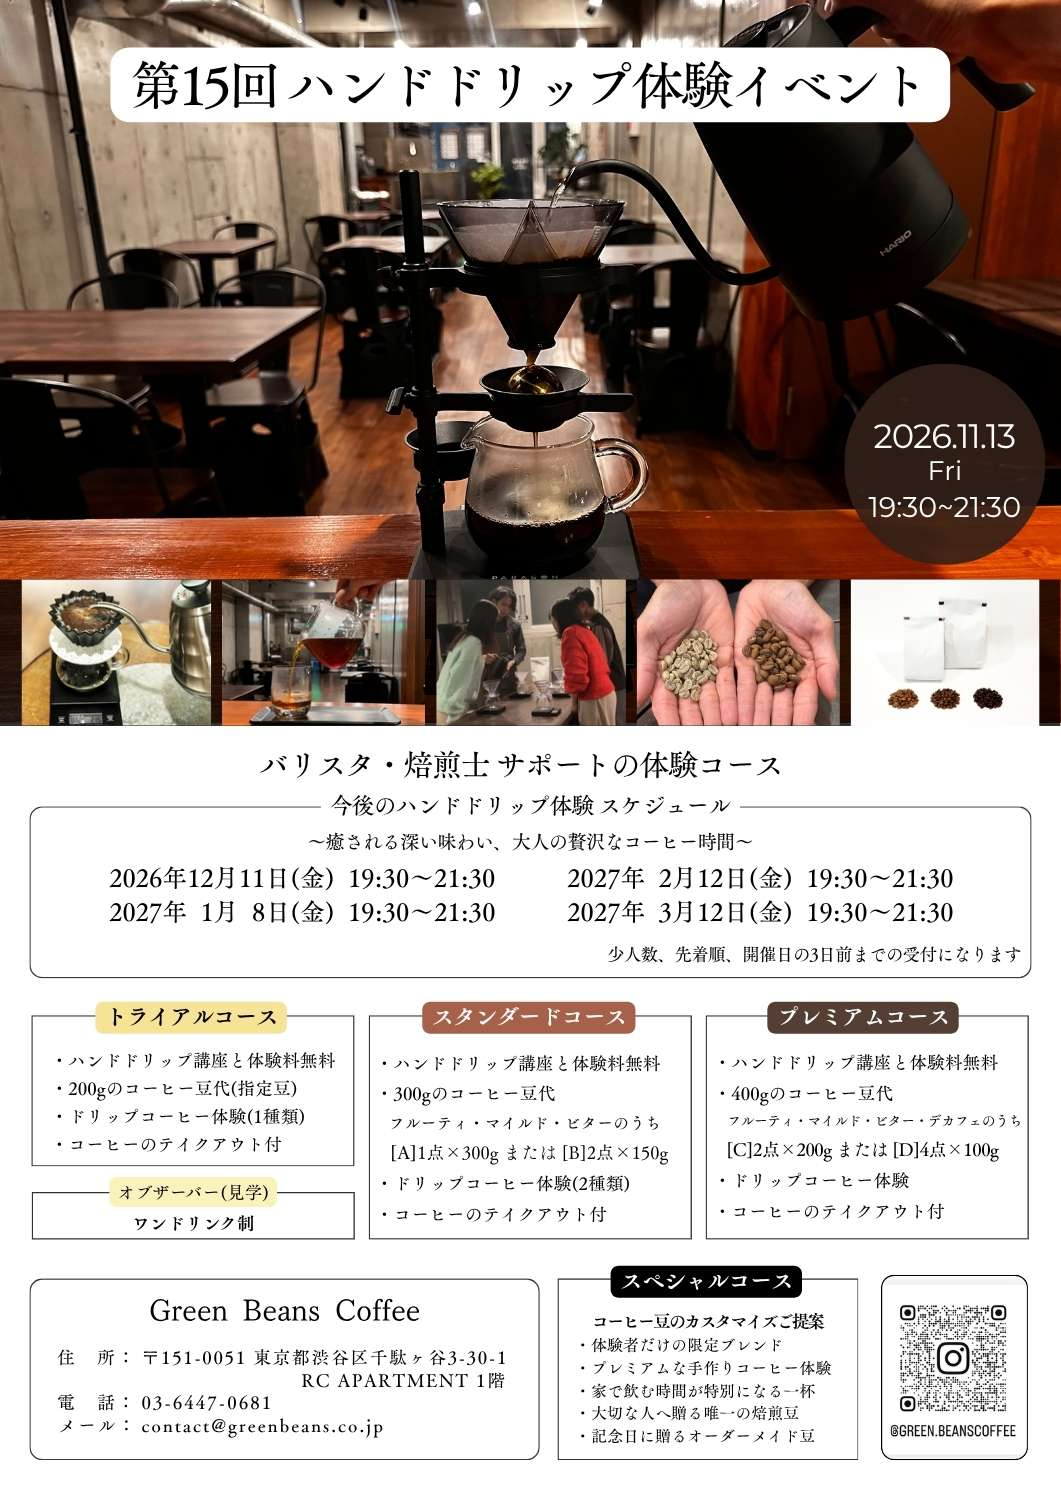
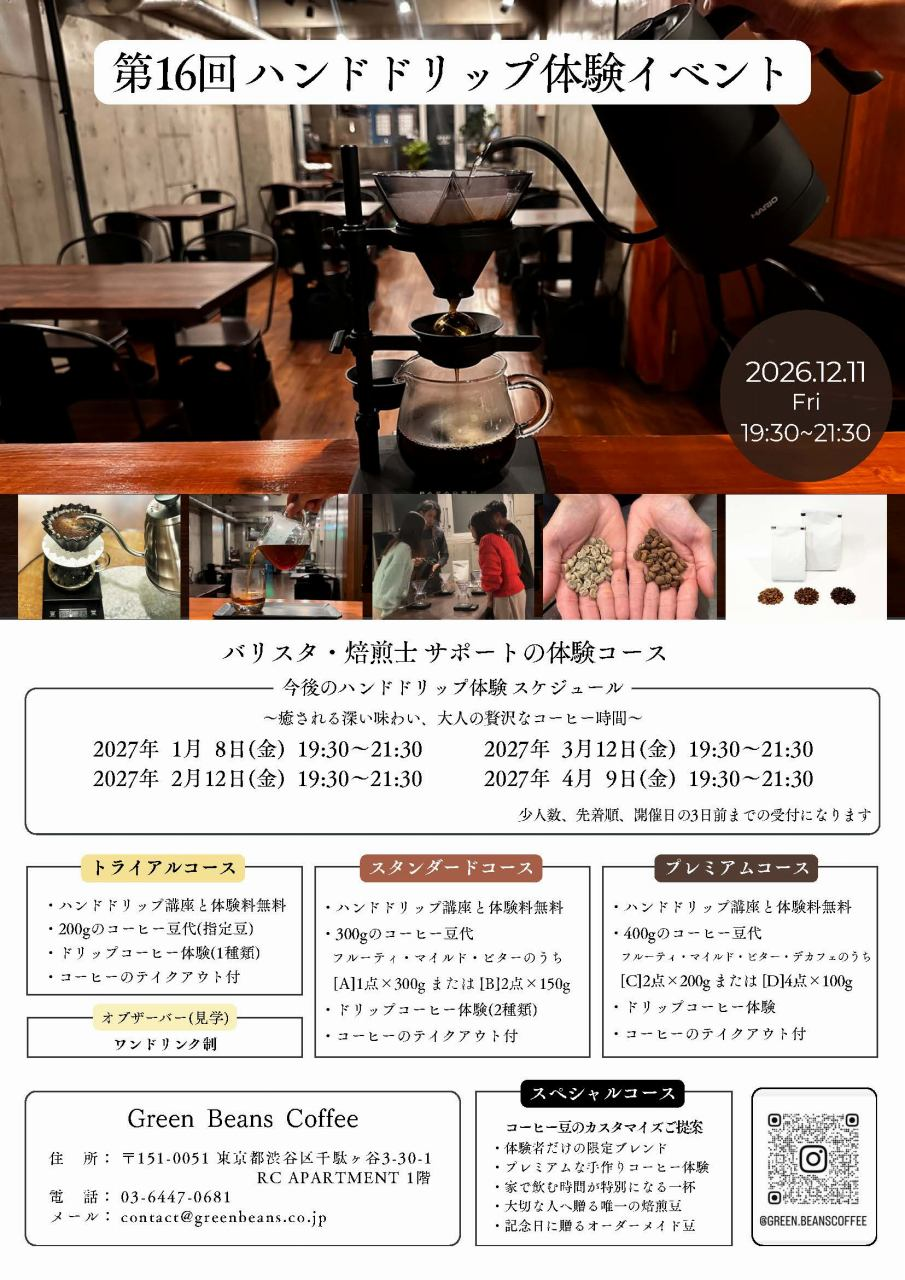
feat: update December coffee workshops and standardize event image workflow

diff --git a/public/en/index.html b/public/en/index.html
@@ -721,7 +721,17 @@
 
             <!-- Event Flyer -->
             <div class="w-full lg:h-full flex flex-col">
-              <img src="/assets/images/events/event-roasting.jpg" alt="Green Beans Coffee roasting experience event — use the in-house roaster to learn how coffee beans are transformed, step by step." class="w-full rounded-lg shadow-lg" loading="lazy" decoding="async">
+              <div class="relative group cursor-pointer" onclick="openModal(this)">
+                <img src="/assets/images/events/event-roasting.jpg?v=4fdf2a6f" alt="Flyer for the 24th Coffee Roasting Workshop at Green Beans Coffee (Kitasando / Sendagaya) — December 26, 2026 (Sat), 8:00–10:00. Use the in-house roaster to learn how coffee beans are transformed, step by step." class="w-full rounded-lg shadow-lg group-hover:shadow-xl transition-all duration-300 group-hover:scale-105" loading="lazy" decoding="async">
+                <div class="absolute inset-0 bg-black/0 group-hover:bg-black/20 transition-all duration-300 rounded-lg flex items-center justify-center">
+                  <svg xmlns="http://www.w3.org/2000/svg" width="48" height="48" viewBox="0 0 24 24" fill="none" stroke="white" stroke-width="2" stroke-linecap="round" stroke-linejoin="round" class="opacity-0 group-hover:opacity-100 transition-opacity duration-300">
+                    <circle cx="11" cy="11" r="8"></circle>
+                    <path d="m21 21-4.3-4.3"></path>
+                    <line x1="11" y1="8" x2="11" y2="14"></line>
+                    <line x1="8" y1="11" x2="14" y2="11"></line>
+                  </svg>
+                </div>
+              </div>
               <div class="hidden lg:flex flex-1 items-end pb-4 mt-4">
                 <div class="flex items-center justify-center gap-3 text-secondary opacity-40 w-full">
                   <svg xmlns="http://www.w3.org/2000/svg" width="24" height="24" viewBox="0 0 24 24" fill="none" stroke="currentColor" stroke-width="2" stroke-linecap="round" stroke-linejoin="round" class="lucide lucide-coffee"><path d="M10 2v2"/><path d="M14 2v2"/><path d="M16 8a1 1 0 0 1 1 1v8a4 4 0 0 1-4 4H7a4 4 0 0 1-4-4V9a1 1 0 0 1 1-1h14a4 4 0 1 1 0 8h-1"/><path d="M6 2v2"/></svg>
@@ -766,7 +776,17 @@
 
             <!-- Event Flyer -->
             <div class="w-full lg:h-full flex flex-col">
-              <img src="/assets/images/events/event-handdrip.jpg" alt="Green Beans Coffee hand-drip experience event — learn the art of pour-over coffee and discover how technique shapes flavor." class="w-full rounded-lg shadow-lg" loading="lazy" decoding="async">
+              <div class="relative group cursor-pointer" onclick="openModal(this)">
+                <img src="/assets/images/events/event-handdrip.jpg?v=202ccace" alt="Flyer for the 16th Hand-Drip Coffee Workshop at Green Beans Coffee (Kitasando / Sendagaya) — December 11, 2026 (Fri), 19:30–21:30. Learn the art of pour-over coffee and discover how technique shapes flavor." class="w-full rounded-lg shadow-lg group-hover:shadow-xl transition-all duration-300 group-hover:scale-105" loading="lazy" decoding="async">
+                <div class="absolute inset-0 bg-black/0 group-hover:bg-black/20 transition-all duration-300 rounded-lg flex items-center justify-center">
+                  <svg xmlns="http://www.w3.org/2000/svg" width="48" height="48" viewBox="0 0 24 24" fill="none" stroke="white" stroke-width="2" stroke-linecap="round" stroke-linejoin="round" class="opacity-0 group-hover:opacity-100 transition-opacity duration-300">
+                    <circle cx="11" cy="11" r="8"></circle>
+                    <path d="m21 21-4.3-4.3"></path>
+                    <line x1="11" y1="8" x2="11" y2="14"></line>
+                    <line x1="8" y1="11" x2="14" y2="11"></line>
+                  </svg>
+                </div>
+              </div>
               <div class="hidden lg:flex flex-1 items-end pb-4 mt-4">
                 <div class="flex items-center justify-center gap-3 text-secondary opacity-40 w-full">
                   <svg xmlns="http://www.w3.org/2000/svg" width="24" height="24" viewBox="0 0 24 24" fill="none" stroke="currentColor" stroke-width="2" stroke-linecap="round" stroke-linejoin="round" class="lucide lucide-coffee"><path d="M10 2v2"/><path d="M14 2v2"/><path d="M16 8a1 1 0 0 1 1 1v8a4 4 0 0 1-4 4H7a4 4 0 0 1-4-4V9a1 1 0 0 1 1-1h14a4 4 0 1 1 0 8h-1"/><path d="M6 2v2"/></svg>
@@ -1959,8 +1979,8 @@
     "image": {
       "@type": "ImageObject",
       "url": "https://greenbeanscoffeeambassador.com/assets/images/events/event-roasting.jpg",
-      "width": 1061,
-      "height": 1500
+      "width": 905,
+      "height": 1280
     },
     "eventStatus": "https://schema.org/EventScheduled",
     "eventAttendanceMode": "https://schema.org/OfflineEventAttendanceMode",
@@ -2007,8 +2027,8 @@
     "image": {
       "@type": "ImageObject",
       "url": "https://greenbeanscoffeeambassador.com/assets/images/events/event-handdrip.jpg",
-      "width": 1061,
-      "height": 1500
+      "width": 905,
+      "height": 1280
     },
     "eventStatus": "https://schema.org/EventScheduled",
     "eventAttendanceMode": "https://schema.org/OfflineEventAttendanceMode",

diff --git a/public/index.html b/public/index.html
@@ -754,7 +754,17 @@
 
             <!-- イベントチラシ -->
             <div class="w-full lg:h-full flex flex-col">
-              <img src="/assets/images/events/event-roasting.jpg" alt="北参道・千駄ヶ谷のGreen Beans Coffeeでは、店内に設置した焙煎機を使った焙煎体験イベントを開催。コーヒー豆が仕上がる工程を学びながら、体験型で楽しめるコーヒー専門店です。" class="w-full rounded-lg shadow-lg" loading="lazy" decoding="async">
+              <div class="relative group cursor-pointer" onclick="openMonthlyModal(this)">
+                <img src="/assets/images/events/event-roasting.jpg?v=4fdf2a6f" alt="北参道・千駄ヶ谷のGreen Beans Coffeeで開催する第24回コーヒー焙煎体験イベント（2026年12月26日 土 8:00〜10:00）のチラシ。店内に設置した焙煎機を使い、コーヒー豆が仕上がる工程を学べる体験型イベントです。" class="w-full rounded-lg shadow-lg group-hover:shadow-xl transition-all duration-300 group-hover:scale-105" loading="lazy" decoding="async">
+                <div class="absolute inset-0 bg-black/0 group-hover:bg-black/20 transition-all duration-300 rounded-lg flex items-center justify-center">
+                  <svg xmlns="http://www.w3.org/2000/svg" width="48" height="48" viewBox="0 0 24 24" fill="none" stroke="white" stroke-width="2" stroke-linecap="round" stroke-linejoin="round" class="opacity-0 group-hover:opacity-100 transition-opacity duration-300">
+                    <circle cx="11" cy="11" r="8"></circle>
+                    <path d="m21 21-4.3-4.3"></path>
+                    <line x1="11" y1="8" x2="11" y2="14"></line>
+                    <line x1="8" y1="11" x2="14" y2="11"></line>
+                  </svg>
+                </div>
+              </div>
               <!-- 装飾 - Desktop only -->
               <div class="hidden lg:flex flex-1 items-end pb-4 mt-4">
                 <div class="flex items-center justify-center gap-3 text-secondary opacity-40 w-full">
@@ -805,7 +815,17 @@
 
             <!-- イベントチラシ -->
             <div class="w-full lg:h-full flex flex-col">
-              <img src="/assets/images/events/event-handdrip.jpg" alt="北参道・千駄ヶ谷のGreen Beans Coffeeでは、ハンドドリップによるコーヒーの淹れ方を体験しながら学べます。抽出の違いや味の変化を楽しめる、知識と発見のあるコーヒー体験が魅力です。" class="w-full rounded-lg shadow-lg" loading="lazy" decoding="async">
+              <div class="relative group cursor-pointer" onclick="openMonthlyModal(this)">
+                <img src="/assets/images/events/event-handdrip.jpg?v=202ccace" alt="北参道・千駄ヶ谷のGreen Beans Coffeeで開催する第16回ハンドドリップ体験イベント（2026年12月11日 金 19:30〜21:30）のチラシ。バリスタが丁寧に指導し、ハンドドリップの淹れ方を体験しながら学べます。" class="w-full rounded-lg shadow-lg group-hover:shadow-xl transition-all duration-300 group-hover:scale-105" loading="lazy" decoding="async">
+                <div class="absolute inset-0 bg-black/0 group-hover:bg-black/20 transition-all duration-300 rounded-lg flex items-center justify-center">
+                  <svg xmlns="http://www.w3.org/2000/svg" width="48" height="48" viewBox="0 0 24 24" fill="none" stroke="white" stroke-width="2" stroke-linecap="round" stroke-linejoin="round" class="opacity-0 group-hover:opacity-100 transition-opacity duration-300">
+                    <circle cx="11" cy="11" r="8"></circle>
+                    <path d="m21 21-4.3-4.3"></path>
+                    <line x1="11" y1="8" x2="11" y2="14"></line>
+                    <line x1="8" y1="11" x2="14" y2="11"></line>
+                  </svg>
+                </div>
+              </div>
               <!-- 装飾 - Desktop only -->
               <div class="hidden lg:flex flex-1 items-end pb-4 mt-4">
                 <div class="flex items-center justify-center gap-3 text-secondary opacity-40 w-full">
@@ -2220,8 +2240,8 @@
     "image": {
       "@type": "ImageObject",
       "url": "https://greenbeanscoffeeambassador.com/assets/images/events/event-roasting.jpg",
-      "width": 1061,
-      "height": 1500
+      "width": 905,
+      "height": 1280
     },
     "eventStatus": "https://schema.org/EventScheduled",
     "eventAttendanceMode": "https://schema.org/OfflineEventAttendanceMode",
@@ -2268,8 +2288,8 @@
     "image": {
       "@type": "ImageObject",
       "url": "https://greenbeanscoffeeambassador.com/assets/images/events/event-handdrip.jpg",
-      "width": 1061,
-      "height": 1500
+      "width": 905,
+      "height": 1280
     },
     "eventStatus": "https://schema.org/EventScheduled",
     "eventAttendanceMode": "https://schema.org/OfflineEventAttendanceMode",

diff --git a/scripts/update-images.js b/scripts/update-images.js
@@ -216,6 +216,9 @@ async function main() {
   }
 
   // イベントチラシ処理
+  // 焙煎体験・ハンドドリップ体験は互いに独立して更新できる（片方のみの更新も可）。
+  // 処理後も inbox の元画像は削除しない。HTML更新・検証がすべて完了したことを確認してから、
+  // Claude Code が個別ファイル名で削除する運用とする（途中失敗時に元画像を保持するため）。
   log.header('イベントチラシ');
   for (const [key, label, dest] of [
     ['roasting', 'event-roasting.jpg', 'events/event-roasting.jpg'],
@@ -229,7 +232,7 @@ async function main() {
       } else {
         await compressWithJimp(srcPath, destPath);
       }
-      unlinkSync(srcPath);
+      log.info(`inbox/${label} は削除していません。HTML更新・検証完了後に削除してください。`);
     } else {
       log.skip(`${label}: スキップ（inbox になし）`);
     }

diff --git a/CLAUDE.md b/CLAUDE.md
@@ -425,6 +425,7 @@ public/assets/images/monthly-coffee/2.jpg   … 右側に表示する豆
 - 日本語版・英語版で豆名・対象年月の内容が一致しているか確認
 - 通常表示とモーダル拡大表示が同じ画像（同じsrc）を指しているか確認
 - 実ブラウザでのPC・スマートフォン表示、拡大表示の目視確認は、claude-in-chrome等のブラウザ操作ツールが利用できる場合のみ実施する。利用できない場合は「未確認」と明記し、推測で「確認済み」と報告しない
+- **ユーザーが実ブラウザで確認する際は、必ずClaude Codeが提示したローカルURL（`http://127.0.0.1:xxxx/`）を新しいタブで開くこと。本番URL（`https://greenbeanscoffeeambassador.com/`）と混同しないよう案内する**（2026-11-26、ユーザーが本番URLを誤って確認し「更新が反映されていない」と報告した実例あり。プッシュ前は本番がまだ旧版のままなのが正常な状態であることも併せて伝える）
 
 ### 8. inbox元画像の削除（最後の最後に・個別ファイル指定のみ）
 - 上記2〜7がすべて正常に完了したことを確認した**後にのみ**、`inbox/monthly-coffee/1.jpg`・`2.jpg`を個別ファイル名で削除する（ディレクトリ削除・ワイルドカード削除は禁止）
@@ -446,6 +447,94 @@ public/assets/images/monthly-coffee/2.jpg   … 右側に表示する豆
 ### 9. 報告・承認
 - 検出した豆名（日本語・英語）・対象年月・変更ファイル一覧・検証結果を報告する
 - ユーザーの明示的な承認があるまでコミット・プッシュ・本番公開は行わない（本ファイル冒頭の「Git操作の重要ルール」を参照）
+
+---
+
+# 焙煎体験・ハンドドリップ体験イベント（イベントチラシ）セクション
+
+## 概要
+- メインサイトの「Experience」セクション内に、焙煎体験イベント・ハンドドリップ体験イベントのチラシ画像を表示する（`public/index.html`・`public/en/index.html`それぞれ独立したHTMLだが、画像ファイルは共通利用）
+- 2026-11-26にMonthly Coffeeと同様の運用（画像認識による情報取得・全30種類リスト相当の表記統一・ハッシュキャッシュ対策・拡大表示モーダル）を導入した
+- **焙煎体験・ハンドドリップ体験は互いに完全に独立しており、片方のみの更新も可能**（Monthly Coffeeの1.jpg/2.jpgとは異なり「両方揃っていないと処理しない」制約はない）
+
+## ファイル構成
+```
+public/assets/images/events/event-roasting.jpg   … 焙煎体験イベントのチラシ
+public/assets/images/events/event-handdrip.jpg    … ハンドドリップ体験イベントのチラシ
+```
+- `scripts/update-images.js`（`npm run update-images`）が `inbox/event-roasting.jpg`・`inbox/event-handdrip.jpg`（**サブフォルダなし、inbox直下にフラット格納**。Monthly Coffeeの`inbox/monthly-coffee/`とは配置が異なるので注意）を読み込み、圧縮してこのパスへ上書きする
+- 画像の縦横比は約0.707（例：905×1280）。Monthly Coffeeの画像と近い比率だが、**絶対ピクセルサイズは毎回のチラシ制作によって変わりうる**。JSON-LDの`image.width`/`height`をハードコードしているため、更新のたびに実際の出力画像サイズと一致しているか確認・更新すること（2026-11-26更新時は1061×1500→905×1280に変更）
+
+## 構造化データ（JSON-LD EventSeries）
+- `public/index.html`・`public/en/index.html`それぞれに「焙煎体験イベント」「ハンドドリップ体験イベント」のEventSeriesが1つずつ、計4ブロック存在する
+- 内容は**汎用的**（`eventSchedule.repeatFrequency: "P1M"`のみで、個別の開催回・日付・今後のスケジュールは含まれていない）。今回の運用では、この汎用構造は維持し、個別の開催回・日付はalt属性にのみ反映する方針とした（JSON-LDにsubEvent等で個別日程を持たせる設計変更は今回のスコープ外。導入する場合は構造自体の変更になるため、別途相談のうえ判断すること）
+- 更新時に必ず確認・修正する項目：`image.width`・`image.height`（実際の出力画像サイズと一致させる）
+- 変更しない項目：`name`・`description`・`eventSchedule`・`offers`・`location`・`organizer`など（個別の開催回ごとに書き換えない）
+
+## alt属性の記載方針（2026-11-26確定）
+- 既存の alt属性は開催回・日付に依存しない汎用的な説明文だったが、Monthly Coffeeと同様にAEO・アクセシビリティの観点から「第◯回＋開催日時」を自然な文の中に含める方式に変更した
+- 元の説明的な文章（何が描かれているか）は保持しつつ、冒頭または末尾に具体的な回数・日時を追加する。既存の説明を丸ごと削除して日付だけにしない
+- 例（日本語）：「北参道・千駄ヶ谷のGreen Beans Coffeeで開催する第24回コーヒー焙煎体験イベント（2026年12月26日 土 8:00〜10:00）のチラシ。店内に設置した焙煎機を使い、コーヒー豆が仕上がる工程を学べる体験型イベントです。」
+- 例（英語）：「Flyer for the 24th Coffee Roasting Workshop at Green Beans Coffee (Kitasando / Sendagaya) — December 26, 2026 (Sat), 8:00–10:00. Use the in-house roaster to learn how coffee beans are transformed, step by step.」
+- 「今後の開催予定」（複数回先の日程）は、2026-11-26時点ではチラシ画像内にのみ印刷されており、サイトのテキストとしては表示していない（既存仕様を維持。新しいテキスト表示ブロックの追加は今回のスコープ外）
+
+## モーダル（拡大表示）の再利用（2026-11-26導入）
+- 焙煎体験・ハンドドリップ体験の画像には、従来クリックで拡大表示する機能がなかったが、Monthly Coffeeで確立した仕組みをそのまま再利用する形で追加した
+- 日本語版：既存の`monthlyModal`/`openMonthlyModal(el)`/`closeMonthlyModal()`をそのまま流用（IDの名称は「Monthly」のままだが、実態はJP版の汎用フライヤー拡大表示モーダルとして機能している。新しいモーダルIDは作らない）
+- 英語版：既存の`imageModal`/`openModal(el)`/`closeModal()`をそのまま流用（マガジン・Monthly Coffeeとも共通）
+- 画像の縦横比（約0.707・縦長）がMonthly Coffeeと同系統のため、表示サイズ設定（JP：`max-h-[85vh] w-auto`、EN：`max-h-[85vh] max-w-[90vw] w-auto h-auto`）もそのまま変更不要だった
+- 新しい画像グループをこの仕組みに追加する場合も、`<div class="relative group cursor-pointer" onclick="openMonthlyModal(this)">`（またはEN版`openModal(this)`）の直下に`<img>`を置く構造を踏襲すること
+
+## 標準更新フロー（2026-11-26確定・Monthly Coffeeと同系統）
+
+**ユーザーの操作は「`inbox/`に`event-roasting.jpg`・`event-handdrip.jpg`（片方のみでも可）を格納し、Claude Codeに更新を指示するだけ」。**
+
+### 0. 作業開始前の確認
+- `git status`で、更新対象ファイル（`public/index.html`・`public/en/index.html`・`public/assets/images/events/event-roasting.jpg`・`event-handdrip.jpg`・`scripts/update-images.js`・`CLAUDE.md`）に、今回の作業と無関係な既存の未コミット変更がないか確認する
+- 既存の変更がある場合は`git stash push -m "イベントチラシ更新前の既存変更を退避" -- <該当ファイルを個別指定>`で退避してから作業を開始する
+
+### 1. inboxの確認
+- `inbox/event-roasting.jpg`・`inbox/event-handdrip.jpg`の存在を個別に確認する（**両方揃っている必要はない**。片方のみでもそのファイルだけ処理する）
+- どちらも存在しない場合はユーザーに確認する
+
+### 2. 画像認識（Claude Codeのビジョン機能のみ使用）
+- 圧縮・配置する**前に**、Readツールでinbox内の画像を直接読み込み、以下を抽出する：
+  - イベント名・開催回（「第◯回」）
+  - 開催日・曜日・開催時間
+  - 今後の開催予定（複数回分、記載があれば）
+- **文字が不鮮明・情報が読み取れない場合、または画像内の開催日と曜日が暦上一致しない場合は、推測で更新せずユーザーに確認する**（2026-11-26の12月号更新では、全日程の曜日を暦計算で検証し、印刷内容と完全に一致することを確認済み）
+
+### 3. 画像の圧縮・配置
+- `npm run update-images`を実行する。`inbox/event-roasting.jpg`・`event-handdrip.jpg`は独立して処理され、**inbox内の元画像は削除されない**（HTML更新・検証が完了するまで保護）
+
+### 4. キャッシュ対策
+- 出力画像のSHA-1ハッシュ先頭8桁を算出し、`?v=`クエリとして日本語版・英語版それぞれの`<img src>`に付与する（Monthly Coffeeと同じ方式。コマンド例は「今月のおすすめ」節を参照）
+
+### 5. HTML更新
+- 日本語版・英語版それぞれの該当イベントのalt属性を、上記の記載方針に従って更新する
+- JSON-LDの`image.width`/`height`を実際の出力画像サイズに更新する
+- 更新していない方のイベント（片方のみ更新の場合）・全30種類リスト・マガジン・既存の予約導線・GA4計測には触れない
+
+### 6. 検証
+- `git diff --stat`で変更ファイルが想定範囲内か確認する
+- JSON-LDが有効なJSONとしてパースできるか確認する（構造化データの構文崩れを防ぐ）
+- 日本語版・英語版で開催回・日付・時間の内容が一致しているか確認する
+- 通常表示とモーダル拡大表示が同じ画像（同じsrc）を指しているか確認する
+- 全30種類リスト・マガジン・GA4計測に変更がないか確認する
+- 実ブラウザでの目視確認は、claude-in-chrome等が利用できる場合のみ実施し、できない場合は「未確認」と明記する
+
+### 7. inbox元画像の削除
+- 上記6が完了したことを確認した**後にのみ**、処理対象だったinbox画像を個別ファイル名で削除する
+
+### 8. 報告・承認
+- 検出した開催回・日付・時間・変更ファイル一覧・検証結果を報告する
+- ユーザーの明示的な承認があるまでコミット・プッシュ・本番公開は行わない
+
+## 復旧手順
+Monthly Coffeeと同じ考え方を適用する：
+- `public/assets/images/events/{event-roasting,event-handdrip}.jpg`・`public/index.html`・`public/en/index.html`・`scripts/update-images.js`・`CLAUDE.md`はGit追跡済みファイルのため、`git restore -- <個別ファイル名>`（対象無指定の`git restore .`は禁止）で直前の公開状態に戻せる
+- 「0. 作業開始前の確認」でstashに退避した既存の未コミット変更がある場合は、復旧後に`git stash pop`で復元する
+- inbox内の元画像は削除していないため、復旧後にそのまま再実行できる
 
 ---
 
